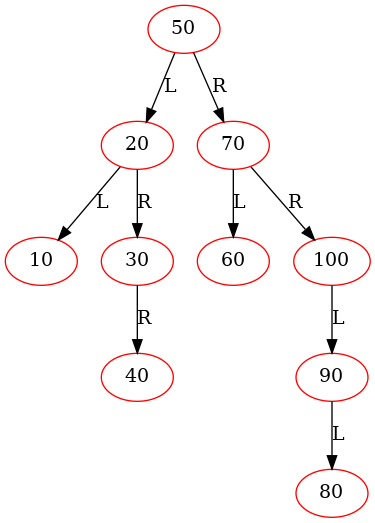
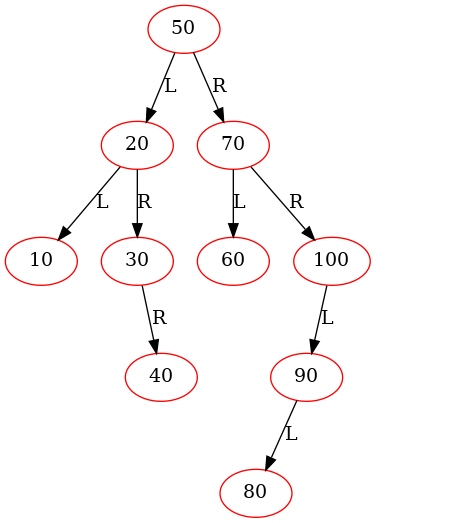
Update Tutorials/Week9

diff --git a/Tutorials/Week9/src/BiTree.c b/Tutorials/Week9/src/BiTree.c
@@ -119,6 +119,8 @@ static void DisplayVisited(FILE *dotFile, BiTreeNodePtr root) {
     if (root) {
         if (root->visited) {
             fprintf(dotFile, "\"%s\" [color=red]\n", root->value.name);            
+        } else {
+            fprintf(dotFile, "\"%s\"\n", root->value.name);
         }
         DisplayVisited(dotFile, root->leftChild);
         DisplayVisited(dotFile, root->rightChild);
@@ -165,16 +167,30 @@ void BiTree2Dot(BiTreeNodePtr root,
         fprintf(dotFile, "digraph %s {\n", graphName);
         
         struct Queue *pQueue = CreateQueue();
+        long hiddenNodeCnt = 0;
+        char *hiddenNodePrefix = "HD";        
         if (root) {
             QueueEnqueue(pQueue, root);
             while (!QueueIsEmpty(pQueue)) {
                 BiTreeNodePtr curNode = QueueDequeue(pQueue);
+                if (!curNode->leftChild && !curNode->rightChild) {
+                    continue;
+                }                
+
                 if (curNode->leftChild) {
                     fprintf(dotFile, "\"%s\" %s {\"%s\"} [label=\"L\"]\n",
                             curNode->value.name,
-                            edgeConnectorStr,                         
+                            edgeConnectorStr,
                             curNode->leftChild->value.name);
                     QueueEnqueue(pQueue, curNode->leftChild);
+                } else {
+                    fprintf(dotFile, "\"%s\" %s {\"%s%ld\"} [label=\"L\"] [style=invis]\n",
+                            curNode->value.name,
+                            edgeConnectorStr,
+                            hiddenNodePrefix, 
+                            hiddenNodeCnt);  
+                    fprintf(dotFile, "\"%s%ld\" [style=invis]\n", hiddenNodePrefix, hiddenNodeCnt);
+                    hiddenNodeCnt++;
                 }
                 if (curNode->rightChild) {
                     fprintf(dotFile, "\"%s\" %s {\"%s\"} [label=\"R\"]\n",                        
@@ -182,6 +198,14 @@ void BiTree2Dot(BiTreeNodePtr root,
                             edgeConnectorStr,
                             curNode->rightChild->value.name);
                     QueueEnqueue(pQueue, curNode->rightChild);
+                } else {
+                    fprintf(dotFile, "\"%s\" %s {\"%s%ld\"} [label=\"R\"] [style=invis]\n",
+                            curNode->value.name,
+                            edgeConnectorStr,
+                            hiddenNodePrefix, 
+                            hiddenNodeCnt);  
+                    fprintf(dotFile, "\"%s%ld\" [style=invis]\n", hiddenNodePrefix, hiddenNodeCnt);
+                    hiddenNodeCnt++;
                 }            
                 
             }

diff --git a/Tutorials/Week9/README.md b/Tutorials/Week9/README.md
@@ -199,17 +199,17 @@ Here, **feh** is an image viewer available in [CSE VLAB](https://vlabgateway.cse
 
 |Delete 20 (case 11 in the previous state, swapping 20 and 30, inconsistency) | Delete 20 (case 01 in the previous state)  |  Delete 10 (case 00 in the previous state)  |
 |:-------------:|:-------------:|:-------------:|
-| <img src="images/BiTreeDelete_0003.png" width="180"> |  <img src="images/BiTreeDelete_0004.png" width="180"> | <img src="images/BiTreeDelete_0005.png" width="120"> |
+| <img src="images/BiTreeDelete_0003.png" width="180"> |  <img src="images/BiTreeDelete_0004.png" width="180"> | <img src="images/BiTreeDelete_0005.png" width="160"> |
 
 
 | Delete 30 (case 01 in the previous state) | Delete 40 (case 00 in the previous state)  |  Delete 70 (case 01 in the previous state) | Delete 60 (case 01 in the previous state) |
 |:-------------:|:-------------:|:-------------:|:-------------:|
-| <img src="images/BiTreeDelete_0006.png" width="120"> |  <img src="images/BiTreeDelete_0007.png" width="60"> | <img src="images/BiTreeDelete_0008.png" width="60"> | <img src="images/BiTreeDelete_0009.png" width="60"> |
+| <img src="images/BiTreeDelete_0006.png" width="120"> |  <img src="images/BiTreeDelete_0007.png" width="100"> | <img src="images/BiTreeDelete_0008.png" width="100"> | <img src="images/BiTreeDelete_0009.png" width="100"> |
 
 
 | Delete 100 (case 10 in the previous state) | Delete 90 (case 10 in the previous state) |  Delete 80 (case 00 in the previous state) | 
 |:-------------:|:-------------:|:-------------:|
-| <img src="images/BiTreeDelete_0010.png" width="60"> |  <img src="images/BiTreeDelete_0011.png" width="60"> | <img src="images/BiTreeDelete_0012.png" width="60"> | 
+| <img src="images/BiTreeDelete_0010.png" width="80"> |  <img src="images/BiTreeDelete_0011.png" width="60"> | <img src="images/BiTreeDelete_0012.png" width="60"> |  
 
 
 ## 4 Data structures
